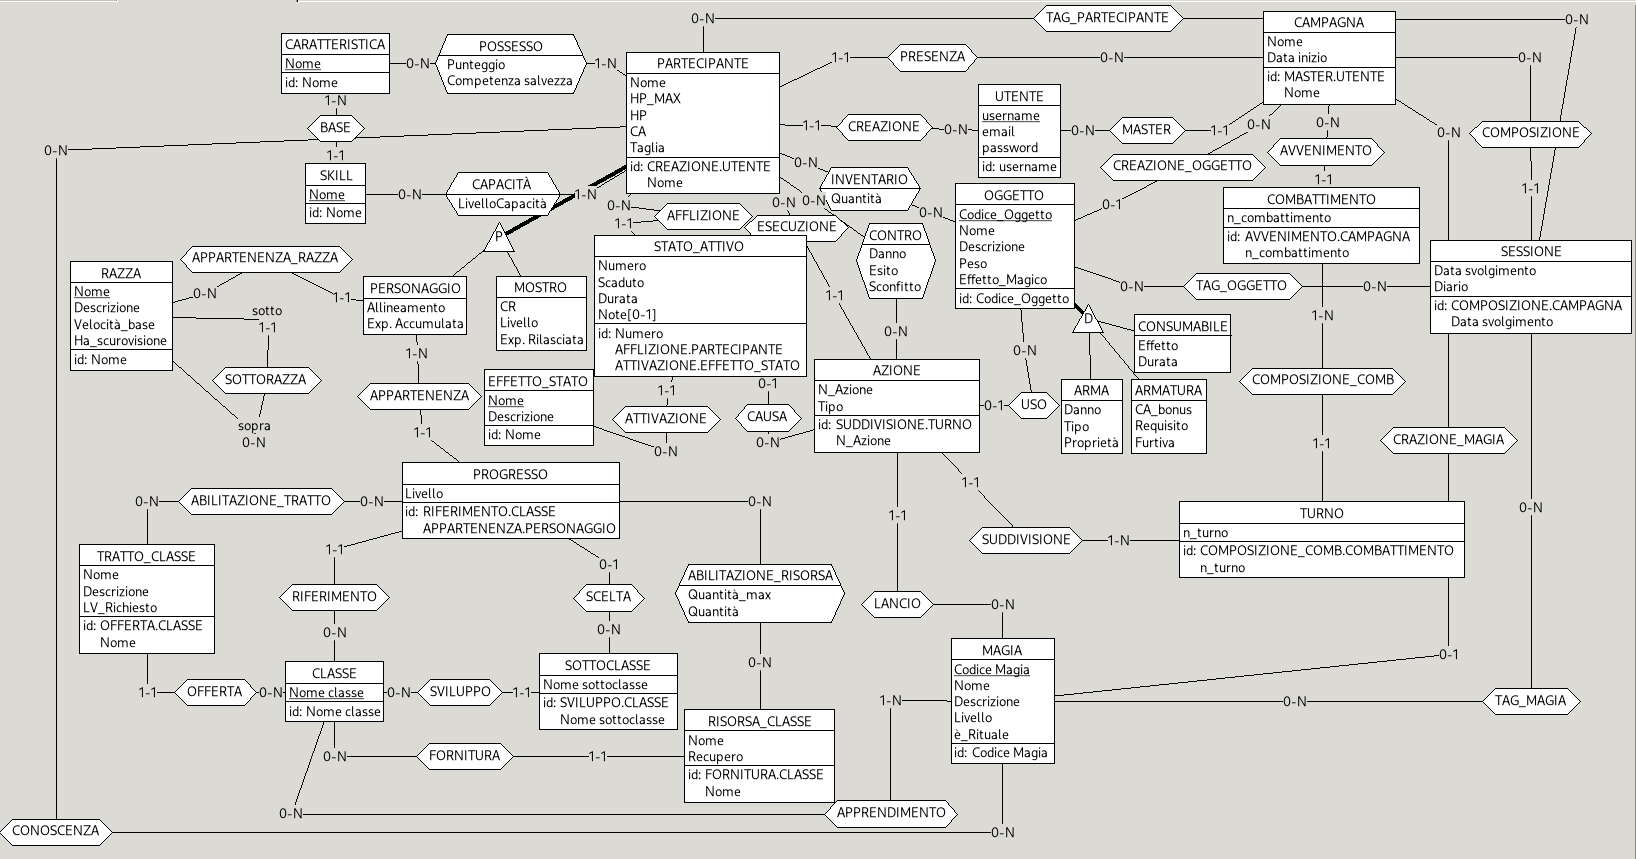
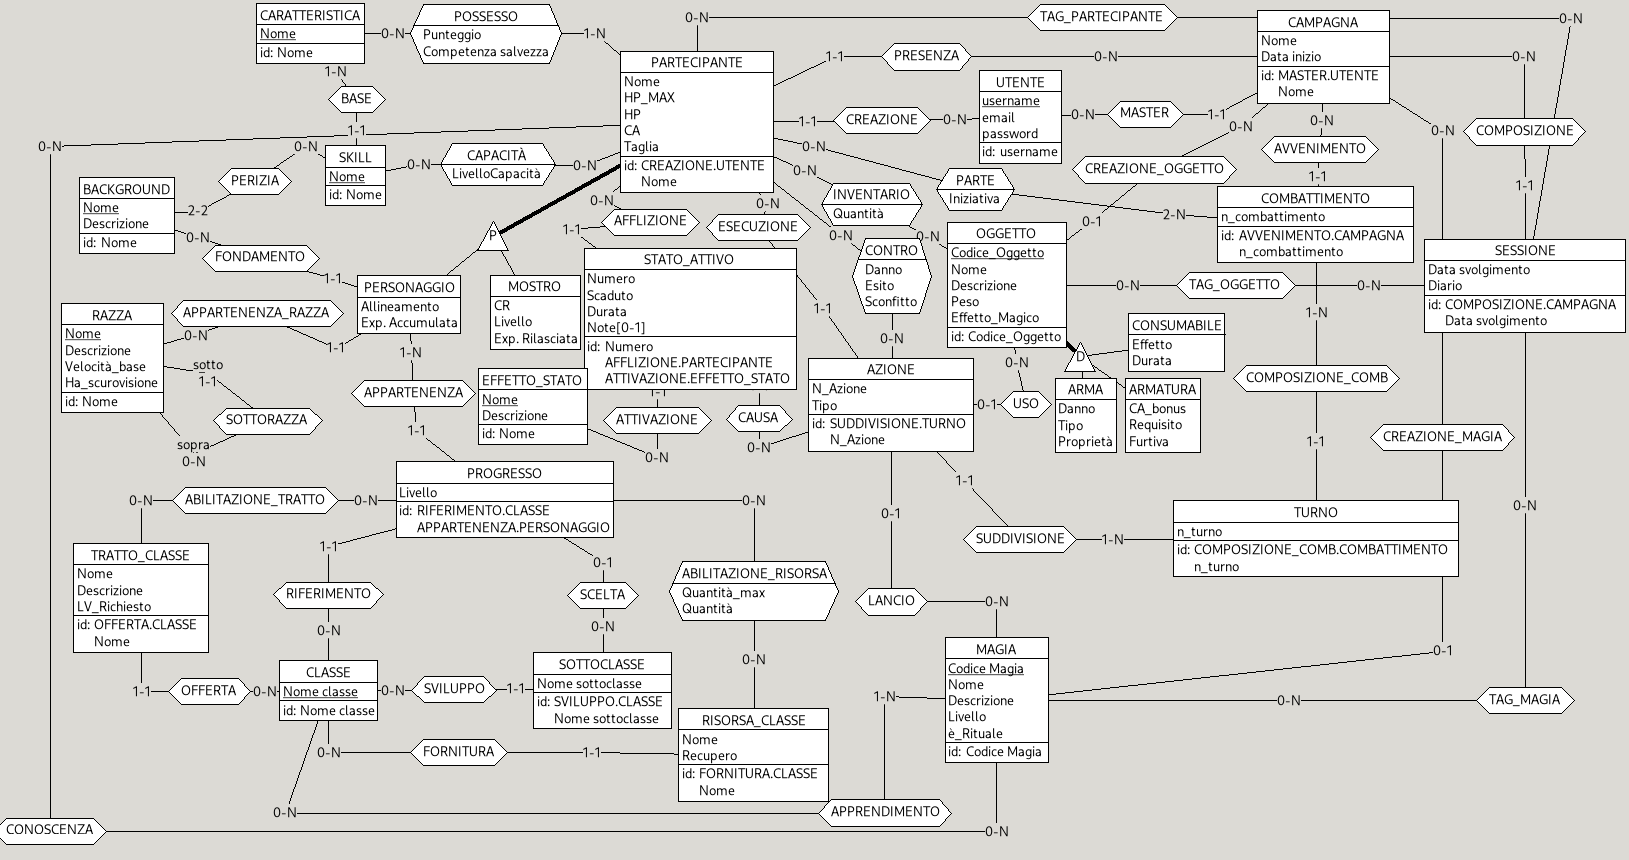
fix: complete er hopefully

diff --git a/report/main.tex b/report/main.tex
@@ -269,6 +269,7 @@ Saranno ora elencate tutte le entità e relazioni che andranno a comporre lo sch
     CARATTERISTICA & E & Rappresenta le caratteristiche base (es. Forza, Destrezza) del sistema di gioco. \\ \midrule 
     SKILL & E & Rappresenta le abilità (Furtività, Agilità, ecc...) in cui si può avere competenza. \\ \midrule 
     RAZZA & E & Rappresenta la razza scelta nella creazione del Personaggio. \\ \midrule
+    BACKGROUND & E & Rappresenta il background (storia pregressa) scelto durante la creazione del Personaggio. \\ \midrule
     CLASSE & E & Rappresenta le classi giocabili (es. Mago, Guerriero). \\ \midrule 
     SOTTOCLASSE & E & Rappresenta la specializzazione a determinati livelli di una Classe. \\ \midrule 
     PROGRESSO & E & Entità debole che traccia l'avanzamento di un Personaggio in una Classe (permette il Multiclasse). \\ \midrule 
@@ -286,6 +287,7 @@ Saranno ora elencate tutte le entità e relazioni che andranno a comporre lo sch
     STATO\_ATTIVO & E & Entità debole dinamica di un Effetto di Stato su un Partecipante. \\ \midrule
 
     CREAZIONE & R & Lega l'Utente ai Partecipanti che ha creato. \\ \midrule 
+    PARTE & R & Lega un Partecipante ai Combattimenti a cui prende parte, registrandone il valore di Iniziativa per lo scontro. \\ \midrule
     MASTER & R & Lega l'Utente (DM) alle Campagne che gestisce. \\ \midrule 
     PRESENZA & R & Lega il Partecipante alle Campagne in cui è presente. \\ \midrule 
     CREAZIONE\_MAGIA & R & Lega l'Utente alle Magie che ha creato per la piattaforma. \\ \midrule 
@@ -296,6 +298,8 @@ Saranno ora elencate tutte le entità e relazioni che andranno a comporre lo sch
     TAG\_PARTECIPANTE & R & Lega la Sessione ai Partecipanti menzionati al suo interno. \\ \midrule 
     SOTTORAZZA & R & Lega ricorsivamente una Razza alle sue Sottorazze. \\ \midrule 
     APPARTENENZA\_RAZZA & R & Lega il Personaggio alla Razza a cui appartiene. \\ \midrule 
+    FONDAMENTO & R & Lega il Personaggio al Background scelto in fase di creazione. \\ \midrule
+    PERIZIA & R & Lega un Background alle Skill in cui garantisce competenza. \\ \midrule
     APPARTENENZA & R & Lega il Progresso al Personaggio giocante, definendone il livello accumulato. \\ \midrule 
     RIFERIMENTO & R & Lega il Progresso alla specifica Classe in cui il Personaggio sta avanzando. \\ \midrule 
     SCELTA & R & Lega il Progresso alla Sottoclasse intrapresa. \\ \midrule 
@@ -322,7 +326,6 @@ Saranno ora elencate tutte le entità e relazioni che andranno a comporre lo sch
     SUDDIVISIONE & R & Lega un Turno alle singole Azioni in esso eseguite. \\ \midrule 
 
 \end{longtable}
-
 \clearpage
 \restoregeometry
 
